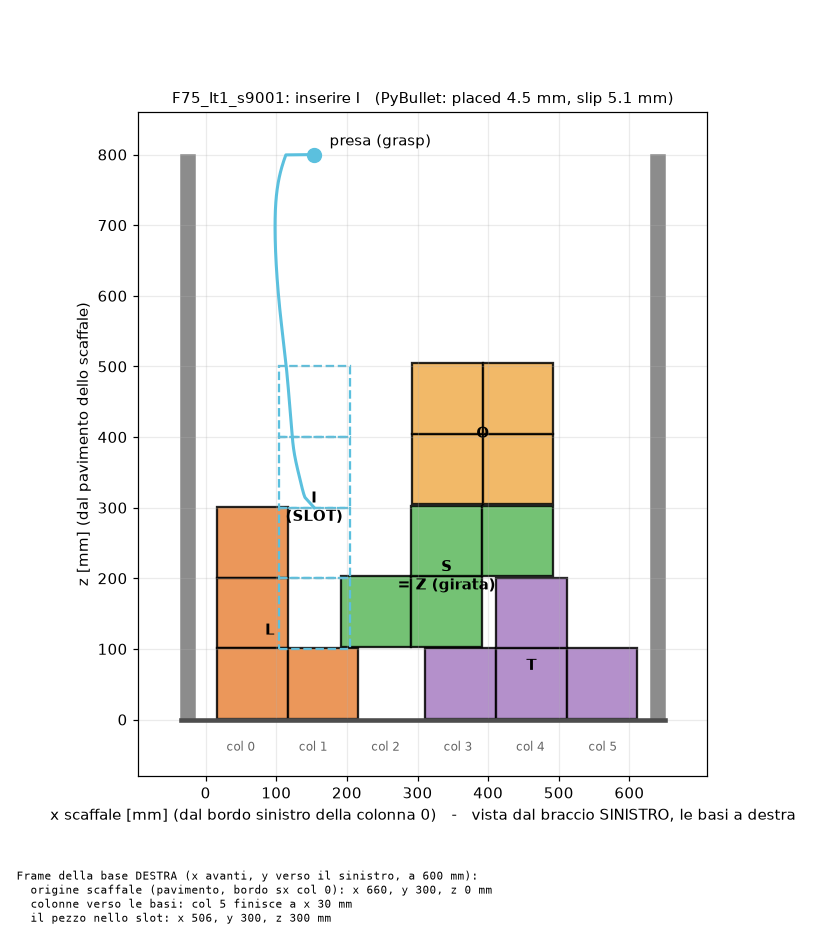
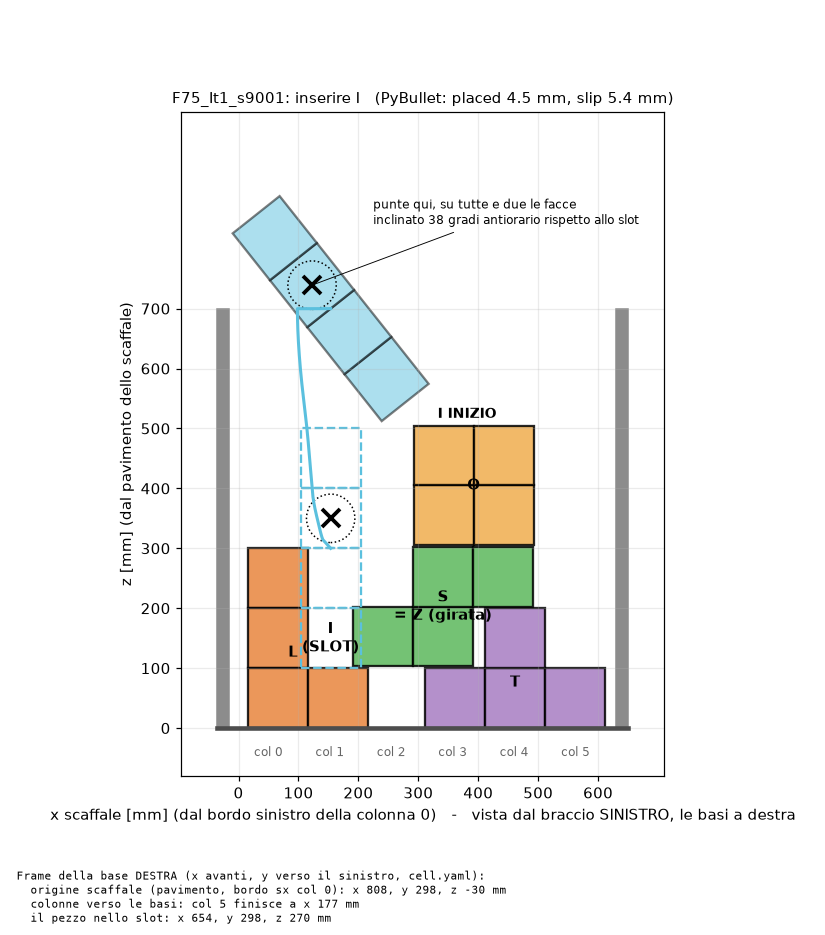
shelf measurement fix and fig where piece start

diff --git a/kinova_dual_arm_dmp_insertion/board.py b/kinova_dual_arm_dmp_insertion/board.py
@@ -4,10 +4,11 @@ The shelf seen from the LEFT arm's side (shelf x to the right, z up, the shelf
 frame of cell.yaml: origin on the floor at the left edge of column 0). The
 four neighbours where the route file puts them (the narrowed slot: they lean
 into it by 12.5% of a cell), the slot of the inserted piece dashed, the path
-of the piece's centre from the grasp pose down to the slot. With `--sep` the
-nominal pair placement (pair.py) is written under it in the RIGHT base frame.
+of the piece's centre from the grasp pose down to the slot. Under it, where the
+shelf and the slot are in the RIGHT base frame: the measured `shelf_in_base` of
+cell.yaml, or with `--sep` the nominal pair placement (pair.py).
 
-    python -m kinova_dual_arm_dmp_insertion.board F75_Tt1_s9007 --routes c100_five_cut800 --sep 0.60
+    python -m kinova_dual_arm_dmp_insertion.board F75_Tt1_s9007 --routes c100_five_cut800
     -> docs/boards/F75_Tt1_s9007.png, and the piece coordinates printed in mm
 
 Needs matplotlib only (no ROS).
@@ -29,6 +30,7 @@ COLOURS = {"I": "#5bc0de", "O": "#f0ad4e", "T": "#a77dc2", "L": "#e8853d", "J": 
            "S": "#5cb85c", "Z": "#d9534f"}
 # a flat piece turned over is its mirror: the physical kit I O T L Z also gives J and S
 MIRROR = {"J": "L (girata)", "S": "Z (girata)"}
+R_TRI = 0.0404       # [m] the tri-pad's contact circle (cell.yaml tool: r_tri), drawn round the grasp point
 
 
 def shapes():
@@ -51,11 +53,30 @@ def pieces(route):
     return out
 
 
+def start_cells(route):
+    """The corners [4, 3] of each cell of the piece held at the grasp pose, shelf frame."""
+    h = 0.5 * float(route.raw["piece_model"]["cell"])
+    sq = np.array([[-h, -h, 0.0], [h, -h, 0.0], [h, h, 0.0], [-h, h, 0.0]])
+    return [route.grasp_c + route.grasp_R.apply(c + sq) for c in route.cells]
+
+
+def tilt_deg(route):
+    """The start pose against the slot: degrees about the shelf y (the view axis),
+    > 0 = clockwise in the figure (seen from the left arm)."""
+    return float(np.degrees((route.grasp_R * route.R_target.inv()).as_rotvec()[1]))
+
+
+def grasp_cell(route):
+    """Which cell the tri-pads press on: its index and its centre in mm (piece frame)."""
+    k = int(np.argmin(np.linalg.norm(route.cells - route.r_plan, axis=1)))
+    return k, 1000 * (route.r_plan - route.cells[k])
+
+
 def draw(route, out_png, placement=None):
     import matplotlib
     matplotlib.use("Agg")
     import matplotlib.pyplot as plt
-    from matplotlib.patches import Rectangle
+    from matplotlib.patches import Circle, Polygon, Rectangle
     s = route.shelf
     cell = float(route.raw["piece_model"]["cell"])
     x0, x1 = s["inner_faces"]
@@ -74,15 +95,39 @@ def draw(route, out_png, placement=None):
                           ls="-" if not ins else "--", alpha=0.85 if not ins else 1.0)
             ax.add_patch(r)
         cx, cz = cells[:, 0].mean(), cells[:, 2].mean()
+        if ins:   # the name on the cell farthest from the grasp point (the X)
+            g = route.target + route.R_target.apply(route.r_plan)
+            cx, _, cz = cells[np.argmax(np.linalg.norm(cells - g, axis=1))]
         name = letter + ("\n(SLOT)" if ins else "") + (f"\n= {MIRROR[letter]}" if letter in MIRROR else "")
         ax.text(cx, cz, name, ha="center", va="center", fontsize=10, weight="bold")
     path = np.vstack([route.grasp_c, route.centres, route.target])
     ax.plot(path[:, 0], path[:, 2], color=COLOURS[route.piece], lw=2)
-    ax.plot(*route.grasp_c[[0, 2]], "o", color=COLOURS[route.piece], ms=9)
-    ax.annotate("presa (grasp)", route.grasp_c[[0, 2]], xytext=(10, 6), textcoords="offset points")
+    # the piece where it is HELD at the start (put it there by hand): its cells turned
+    # as the grasp pose turns them, and the grasp point (the two tri-pads, one per face)
+    start = start_cells(route)
+    for corners in start:
+        ax.add_patch(Polygon(corners[:, [0, 2]], closed=True, lw=1.5, edgecolor="k",
+                             facecolor=COLOURS[route.piece], alpha=0.5))
+    pts = np.vstack(start)
+    ax.text(pts[:, 0].max() + 0.015, pts[:, 2].min(), route.piece + " INIZIO", ha="left",
+            va="bottom", fontsize=9, weight="bold")
+    for p, R in ((route.grasp_c, route.grasp_R), (route.target, route.R_target)):
+        g = p + R.apply(route.r_plan)
+        ax.plot(*g[[0, 2]], "x", color="k", ms=12, mew=2.5)
+        ax.add_patch(Circle(g[[0, 2]], R_TRI, fill=False, lw=1, ls=":", color="k"))
+    tilt = tilt_deg(route)
+    g0 = route.grasp_c + route.grasp_R.apply(route.r_plan)
+    ax.annotate(f"punte qui, su tutte e due le facce\ninclinato {abs(tilt):.0f} gradi "
+                f"{'orario' if tilt > 0 else 'antiorario'} rispetto allo slot" if abs(tilt) >= 0.5
+                else "punte qui, su tutte e due le facce\ndritto come nello slot",
+                (route.grasp_c + route.grasp_R.apply(route.r_plan))[[0, 2]],
+                xytext=(40 if g0[0] < 0.5 * (x0 + x1) else -40, 40), textcoords="offset points", fontsize=8,
+                ha="left" if g0[0] < 0.5 * (x0 + x1) else "right",
+                arrowprops=dict(arrowstyle="-", lw=0.6))
+    top = max(s["z_top"], path[:, 2].max(), np.vstack(start)[:, 2].max())
     ax.set_aspect("equal")
     ax.set_xlim(x0 - 0.08, x1 + 0.08)
-    ax.set_ylim(-0.08, max(s["z_top"], path[:, 2].max()) + 0.06)
+    ax.set_ylim(-0.08, top + 0.14)          # room for the note above the start pose
     ax.set_xticks(np.arange(0.0, x1 + 0.01, 0.1))
     ax.set_yticks(np.arange(0.0, s["z_top"] + 0.01, 0.1))
     ax.xaxis.set_major_formatter(lambda v, _: f"{1000 * v:.0f}")
@@ -125,22 +170,30 @@ def main():
     cfg, _ = load_config(a.config)
     for w in a.worlds:
         r = Route(w, a.routes, cfg.get("scale", 1.0), cfg.get("piece_mass"))
-        place = None
-        if a.sep is not None:
-            s = pair.place(cfg, r, a.sep, a.forward, a.lift, a.shelf_x)["right"]["shelf_in_base"]
-            R, t = Rot.from_quat(s["quat"]), np.asarray(s["xyz"], float)
-            far = t + R.apply([r.shelf["inner_faces"][1], 0.0, 0.0])
-            slot = t + R.apply(r.target)
-            place = (f"Frame della base DESTRA (x avanti, y verso il sinistro, a {1000 * a.sep:.0f} mm):\n"
-                     f"  origine scaffale (pavimento, bordo sx col 0): x {1000 * t[0]:.0f}, y {1000 * t[1]:.0f}, "
-                     f"z {1000 * t[2]:.0f} mm\n"
-                     f"  colonne verso le basi: col {r.shelf['cols'] - 1} finisce a x {1000 * far[0]:.0f} mm\n"
-                     f"  il pezzo nello slot: x {1000 * slot[0]:.0f}, y {1000 * slot[1]:.0f}, z {1000 * slot[2]:.0f} mm")
+        # --sep: the nominal pair (pair.py); without it the measured shelf_in_base of cell.yaml
+        pl = pair.place(cfg, r, a.sep, a.forward, a.lift, a.shelf_x) if a.sep is not None else cfg
+        s = pl["right"]["shelf_in_base"]
+        R, t = Rot.from_quat(s["quat"]), np.asarray(s["xyz"], float)
+        far = t + R.apply([r.shelf["inner_faces"][1], 0.0, 0.0])
+        slot = t + R.apply(r.target)
+        where = f"a {1000 * a.sep:.0f} mm" if a.sep is not None else "cell.yaml"
+        place = (f"Frame della base DESTRA (x avanti, y verso il sinistro, {where}):\n"
+                 f"  origine scaffale (pavimento, bordo sx col 0): x {1000 * t[0]:.0f}, y {1000 * t[1]:.0f}, "
+                 f"z {1000 * t[2]:.0f} mm\n"
+                 f"  colonne verso le basi: col {r.shelf['cols'] - 1} finisce a x {1000 * far[0]:.0f} mm\n"
+                 f"  il pezzo nello slot: x {1000 * slot[0]:.0f}, y {1000 * slot[1]:.0f}, z {1000 * slot[2]:.0f} mm")
         out = os.path.join(a.out, f"{w}.png")
         draw(r, out, place)
         print(f"  {w}: {os.path.normpath(out)}")
         for line in table(r):
             print("    " + line)
+        g = r.grasp_c + r.grasp_R.apply(r.r_plan)
+        k, off = grasp_cell(r)
+        print(f"    INIZIO (lo metti tu a mano): baricentro x {1000 * r.grasp_c[0]:.0f}, "
+              f"z {1000 * r.grasp_c[2]:.0f} mm, inclinato {tilt_deg(r):+.1f} gradi rispetto allo "
+              f"slot (+ = orario visto dal sinistro)")
+        print(f"    punte (le due facce): x {1000 * g[0]:.0f}, z {1000 * g[2]:.0f} mm, al centro del "
+              f"cubo {k} del pezzo (scarto {np.linalg.norm(off):.0f} mm)")
         if place:
             print("    " + place.replace("\n", "\n    "))
 

diff --git a/docs/ESEMPI_5_PEZZI.md b/docs/ESEMPI_5_PEZZI.md
@@ -27,22 +27,33 @@ Partire dal **1** (T): è quello già provato oggi a braccio singolo.
      ^
  600 |  [base SINISTRA .200]  ->  tool guarda -y
      |
- 300 |  ====================== scaffale (piano x-z) ======================
-     |  x=30 (col 5)                                        x=660 (col 0)
+ 360 |  +------------------------------------------------------+  lato verso il .200
+ 298 |  |  scaffale (piano x-z), profondo 125 mm                |
+ 235 |  +------------------------------------------------------+  lato verso il .107
+     |  x=175 (col 5)                               x=825 (col 0)
      |
    0 |  [base DESTRA .107]    ->  tool guarda +y
      +--------------------------------------------------------------------> x
-        0                                                  660 mm
+        0                                                       825 mm
 ```
 
-- Le due basi sono **parallele** (stessa x in avanti, stessa altezza) e la sinistra sta a **y = +600 mm**.
-- Lo scaffale è **centrato** fra le due basi (y = 300 mm). Il suo pavimento è **alla quota
-  delle basi** (z = 0). Se è più alto o più basso, aggiungi `--lift <metri>` a tutti i comandi
-  (positivo = più in alto).
-- L'origine dello scaffale (pavimento, bordo sinistro della colonna 0) è a **x = 660 mm**
-  davanti alle basi, uguale per tutti e 5 i mondi (`--shelf-x 0.66`). Le colonne vanno
-  **verso le basi**: la col 0 è la più lontana, la col 5 finisce a x = 30 mm.
-- Le figure sono **viste dal braccio sinistro**: la col 0 a sinistra, le basi a destra.
+Misurato a mano (2026-10-15), già scritto in `config/cell.yaml` (`shelf_in_base` dei due bracci):
+
+- Le due basi sono **parallele** (stessa x in avanti, stessa altezza), la sinistra a **y = +600 mm**.
+- Il pavimento dello scaffale va da **x = 175 a 825 mm** davanti a tutte e due le basi, ed è
+  **30 mm sotto** le basi (z = -30).
+- Lo spigolo basso vicino è a y = +235 mm dal .107 e a y = -240 mm dal .200: lo scaffale è
+  profondo 125 mm, il suo piano centrale è a y = +297.5 dal .107 (-302.5 dal .200).
+- L'origine dello scaffale (pavimento, bordo sinistro della colonna 0) è a **x = 807.5 mm**:
+  i 646 mm fra le pareti dello scaffale simulato, centrati sui 650 di quello vero. Le colonne
+  vanno **verso le basi**: la col 0 è la più lontana, la col 5 finisce a x = 177 mm.
+- Tutti i comandi usano `--cell` (queste misure). Se sposti lo scaffale o i bracci, rimisura e
+  correggi `shelf_in_base` in `config/cell.yaml`.
+- Le figure sono **viste dal braccio sinistro** (.200, guardando verso il .107): la col 0 a
+  sinistra, le basi a destra. Il pezzo pieno in alto (INIZIO) è come lo devi tenere tu fra le
+  punte prima di Enter, già inclinato; la **X** è dove premono le punte, sulle due facce grandi;
+  il cerchio puntinato è la spugna del tri-pad. Il tratteggiato è lo slot, con la X nello
+  stesso punto del pezzo. Orario e antiorario si intendono visti da qui.
 - Il pezzo è spesso 100 mm (in y). Le punte degli end effector stanno a ±50 mm dal piano
   centrale dello scaffale quando stringono (`--gap 0.10`), a ±100 mm con `--gap 0.20`.
 
@@ -104,7 +115,7 @@ ros2 service call /left/zero_wrench std_srvs/srv/Trigger && ros2 topic echo /lef
 ## Per ogni mondo: la scala dei test
 
 Per ogni esempio, in ordine, e si passa al gradino dopo solo se quello prima è andato bene.
-`W` = il nome del mondo: copia la riga dalla sezione dell'esempio.
+`W` = il nome del mondo, `R` = la cartella delle rotte: copia le righe dalla sezione dell'esempio.
 
 | gradino | cosa | board montata? | pezzo in mano? |
 |---|---|---|---|
@@ -118,32 +129,32 @@ Per ogni esempio, in ordine, e si passa al gradino dopo solo se quello prima è 
 I comandi sono gli stessi per tutti, cambia solo `W`:
 
 ```bash
-W=F75_Tt1_s9007
+W=F75_Tt1_s9007 R=c100_five_cut800
 ```
 
 a.
 ```bash
-python -m kinova_dual_arm_dmp_insertion.follow_two_arms $W --shelf-x 0.66 --gap 0.20 --dry
+python -m kinova_dual_arm_dmp_insertion.follow_two_arms $W --routes $R --cell --gap 0.20 --dry
 ```
 
 b.
 ```bash
-python -m kinova_dual_arm_dmp_insertion.follow_two_arms $W --shelf-x 0.66 --gap 0.20 --lift 0.10
+python -m kinova_dual_arm_dmp_insertion.follow_two_arms $W --routes $R --cell --gap 0.20 --lift 0.10
 ```
 
 c.
 ```bash
-python -m kinova_dual_arm_dmp_insertion.follow_two_arms $W --shelf-x 0.66 --gap 0.20
+python -m kinova_dual_arm_dmp_insertion.follow_two_arms $W --routes $R --cell --gap 0.20
 ```
 
 d.
 ```bash
-python -m kinova_dual_arm_dmp_insertion.follow_two_arms $W --shelf-x 0.66 --gap 0.10
+python -m kinova_dual_arm_dmp_insertion.follow_two_arms $W --routes $R --cell --gap 0.10
 ```
 
 e.
 ```bash
-python -m kinova_dual_arm_dmp_insertion.main check $W --arm c100_five_cut800 --sep 0.60 --shelf-x 0.66 --slow 3
+python -m kinova_dual_arm_dmp_insertion.main check $W --arm $R --slow 3
 ```
 
 f. Prima rilancia T1 e T2 con la rigidezza per cui la rotta è addestrata (quella che stampa
@@ -162,16 +173,16 @@ source /opt/ros/jazzy/setup.bash && source ~/ros2_ws/install/setup.bash && ros2 
 
 Aspetta che siano tutti e due in home e fermi, poi in T4:
 ```bash
-python -m kinova_dual_arm_dmp_insertion.main insert $W --arm c100_five_cut800 --sep 0.60 --shelf-x 0.66 --slow 3
+python -m kinova_dual_arm_dmp_insertion.main insert $W --arm $R --slow 3
 ```
 
 `--gap` è la distanza fra le punte (le due facce di spugna che si guardano): 0.20 per i primi
 giri, 0.10 è la larghezza del pezzo. Nel codice: `GAP` in `follow_two_arms.py`.
 
-Per rifare le figure e le quote (anche dopo aver cambiato `--shelf-x` o `--lift`):
+Per rifare le figure e le quote (anche dopo aver cambiato `shelf_in_base` in `config/cell.yaml`):
 
 ```bash
-python -m kinova_dual_arm_dmp_insertion.board $W --sep 0.60 --shelf-x 0.66
+python -m kinova_dual_arm_dmp_insertion.board $W --routes $R
 ```
 
 ---
@@ -179,7 +190,7 @@ python -m kinova_dual_arm_dmp_insertion.board $W --sep 0.60 --shelf-x 0.66
 ## 1. T - `F75_Tt1_s9007`
 
 ```bash
-W=F75_Tt1_s9007
+W=F75_Tt1_s9007 R=c100_five_cut800
 ```
 
 ![](boards/F75_Tt1_s9007.png)
@@ -194,12 +205,16 @@ Quote di ogni pezzo nel frame dello scaffale (x dal bordo sinistro della col 0, 
 | L | 18 .. 218 | 103 .. 403 |
 | **T (slot)** | 106 .. 306 | 100 .. 400 |
 
-Nella base destra il pezzo finisce a x 429, y 300, z 250 mm.
+Nella base destra il pezzo finisce a x 577, y 298, z 220 mm.
+
+**Il pezzo all'inizio** (lo tieni tu fra le punte, poi Enter): baricentro a x 231, z 800 mm, ruotato
+**8° in senso orario** rispetto allo slot. Le punte premono al centro del **cubo centrale della barra**
+(quello sotto il gambo).
 
 ## 2. O - `F75_Ot0_s9005`
 
 ```bash
-W=F75_Ot0_s9005
+W=F75_Ot0_s9005 R=c100_five_cut800
 ```
 
 ![](boards/F75_Ot0_s9005.png)
@@ -212,13 +227,18 @@ W=F75_Ot0_s9005
 | Z | 395 .. 599 | 205 .. 504 |
 | **O (slot)** | 105 .. 305 | 0 .. 200 |
 
-Nella base destra il pezzo finisce a x 455, y 300, z 100 mm (il più basso dei cinque:
-le punte passano a 10 cm dal tavolo).
+Nella base destra il pezzo finisce a x 603, y 298, z 70 mm (il più basso dei cinque:
+le punte passano a 7 cm dal piano delle basi).
+
+**Il pezzo all'inizio**: baricentro a x 205, z 800 mm, **dritto** come nello slot. Le punte premono
+al centro del **cubo in alto a sinistra** (non al centro della O). **Al gradino b niente `--lift 0.10`**: la presa
+è già a 820 mm di quota e salendo di 10 cm il braccio arriva a 922 mm dalla spalla (limite 902);
+senza `--lift` sta a 866.
 
 ## 3. L - `F75_Lt1_s9014`
 
 ```bash
-W=F75_Lt1_s9014
+W=F75_Lt1_s9014 R=c100_five_cut800
 ```
 
 ![](boards/F75_Lt1_s9014.png)
@@ -231,12 +251,15 @@ W=F75_Lt1_s9014
 | I | 498 .. 598 | 0 .. 400 |
 | **L (slot)** | 311 .. 511 | 0 .. 300 |
 
-Nella base destra il pezzo finisce a x 224, y 300, z 175 mm (vicino alle basi).
+Nella base destra il pezzo finisce a x 372, y 298, z 145 mm (vicino alle basi).
+
+**Il pezzo all'inizio**: baricentro a x 436, z 800 mm, ruotato **3° in senso orario**. Le punte premono
+al centro del **cubo d'angolo** della L (dove il piede incontra la barra), che all'inizio sta in alto.
 
 ## 4. Z - `F75_Zt1_s9012`
 
 ```bash
-W=F75_Zt1_s9012
+W=F75_Zt1_s9012 R=c100_five_cut800
 ```
 
 ![](boards/F75_Zt1_s9012.png)
@@ -249,13 +272,16 @@ W=F75_Zt1_s9012
 | L | 123 .. 323 | 104 .. 405 |
 | **Z (slot)** | 310 .. 510 | 100 .. 400 |
 
-Nella base destra il pezzo finisce a x 250, y 300, z 250 mm. Slip in PyBullet 11.9 mm: è il
+Nella base destra il pezzo finisce a x 398, y 298, z 220 mm.
+
+**Il pezzo all'inizio**: baricentro a x 410, z 800 mm, ruotato **3° in senso antiorario**. Le punte
+premono al centro del **cubo centrale in alto a destra** (vedi la X nella figura). Slip in PyBullet 11.9 mm: è il
 più delicato dei cinque.
 
 ## 5. I - `F75_It1_s9001`
 
 ```bash
-W=F75_It1_s9001
+W=F75_It1_s9001 R=c100_five_cut700
 ```
 
 ![](boards/F75_It1_s9001.png)
@@ -268,9 +294,15 @@ W=F75_It1_s9001
 | O | 292 .. 493 | 305 .. 505 |
 | **I (slot)** | 104 .. 204 | 100 .. 500 |
 
-Nella base destra il pezzo finisce a x 506, y 300, z 300 mm. È il più lontano dei cinque:
-821 mm dalla spalla (il limite è 902). **Al gradino b usa `--lift 0.0`**: con `--lift 0.10`
-arriva a 882 mm, il braccio quasi disteso.
+**Il pezzo all'inizio**: baricentro a x 154, z 700 mm, ruotato **38° in senso antiorario** (la cima
+pende verso la col 0). Le punte premono al centro del **secondo cubo dall'alto**.
+
+Nella base destra il pezzo finisce a x 654, y 298, z 270 mm. È il più lontano dei cinque:
+con le rotte `c100_five_cut800` (presa a 800 mm) la flangia arriverebbe a 911 mm dalla spalla,
+oltre il limite di 902. Per questo **la I usa `R=c100_five_cut700`**: stessa board, la presa
+parte 100 mm più in basso, 875 mm dalla spalla, PyBullet placed 4.5 / slip 5.4 mm. **Niente
+`--lift 0.10` al gradino b**: fallo senza `--lift` (sempre `--gap 0.20`, quindi in aria
+sopra lo slot).
 
 ---
 
@@ -278,7 +310,7 @@ arriva a 882 mm, il braccio quasi disteso.
 
 - `logs/follow2_<mondo>_<ora>.csv`: comando e misura delle due flange, errore, forze, distanza
   flangia-flangia (gradini b-d).
-- `logs/<mondo>_c100_five_cut800_<ora>.csv`: l'insert, un tick ogni 10 ms (gradino f).
+- `logs/<mondo>_<rotte>_<ora>.csv`: l'insert, un tick ogni 10 ms (gradino f).
 - `~/lorenzo/bags/sessione_*`: tutto quello che pubblicano i due controller.
 - **A mano**: dopo `insert`, misura la cella peggiore del pezzo rispetto al suo posto (mm) e
   scrivila qui sotto. Il robot non lo vede.
@@ -300,7 +332,7 @@ scp -r nvidia@<ip-pc-robot>:~/lorenzo/ws/src/kinova_dual_arm_dmp_insertion/logs 
 - **Pezzi leggeri** (60-120 g): pesane uno e scrivilo in `config/cell.yaml`, `piece_mass`.
   L'appoggio "a sentire" scatta al 60% del peso, cioè circa 0.5 N. Se il rumore della forza
   stimata è più alto (lo stampa già il gradino b), quella parte non è affidabile: il resto sì.
-- Le posizioni sono **nominali**: le basi parallele a 600 mm e lo scaffale dove è scritto
-  sopra. Se le cose non tornano (le punte non sono dove ti aspetti rispetto ai pezzi), la
-  soluzione è `calibrate_cell.py`, poi senza `--sep` / con `--cell`.
+- Le posizioni vengono da `shelf_in_base` in `config/cell.yaml`, misurate a mano al cm.
+  Se le punte non sono dove ti aspetti rispetto ai pezzi, correggi lì (o misura meglio con
+  `calibrate_cell.py`).
 - Non c'è un controllo di collisione fra gli avambracci: per questo si passa dai gradini b-d.
